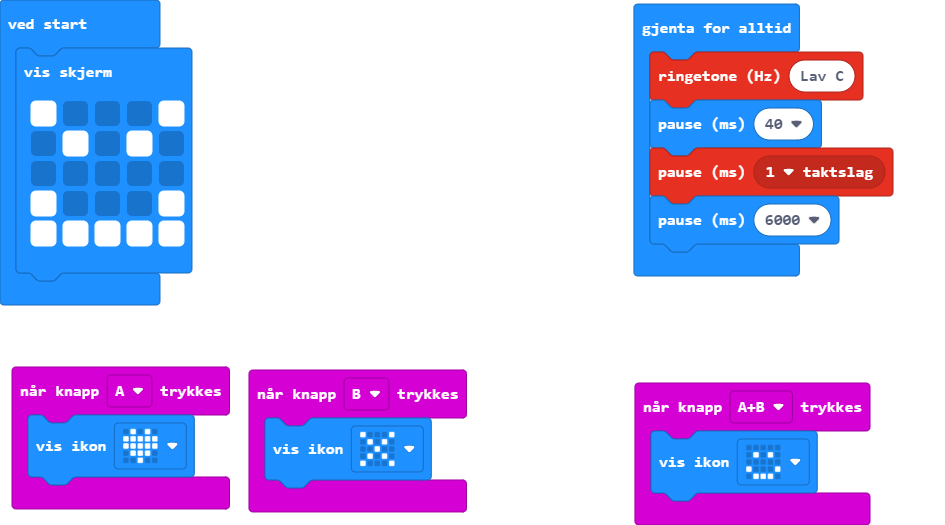
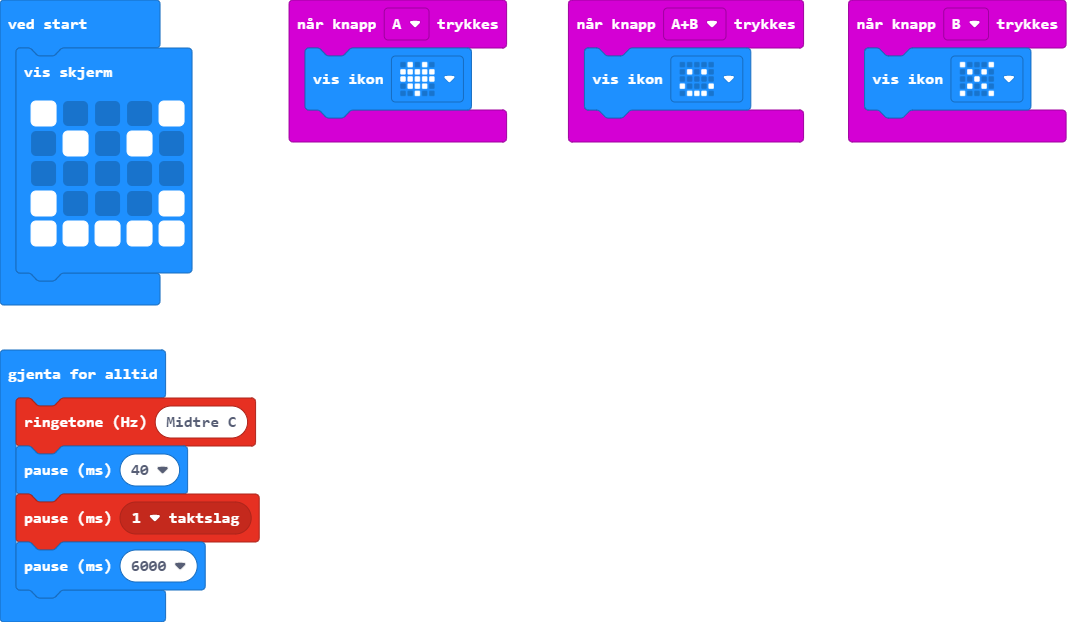
Slettes

diff --git a/main.ts b/main.ts
@@ -15,7 +15,7 @@ basic.showLeds(`
     # # # # #
     `)
 basic.forever(function () {
-    music.ringTone(131)
+    music.ringTone(262)
     basic.pause(40)
     music.rest(music.beat(BeatFraction.Whole))
     basic.pause(6000)
